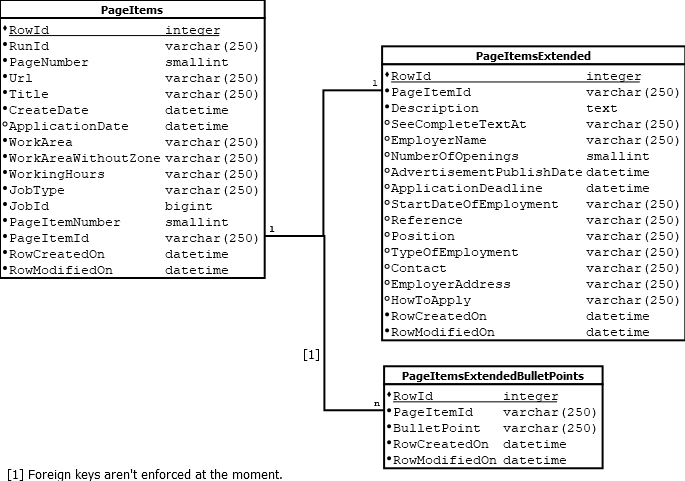
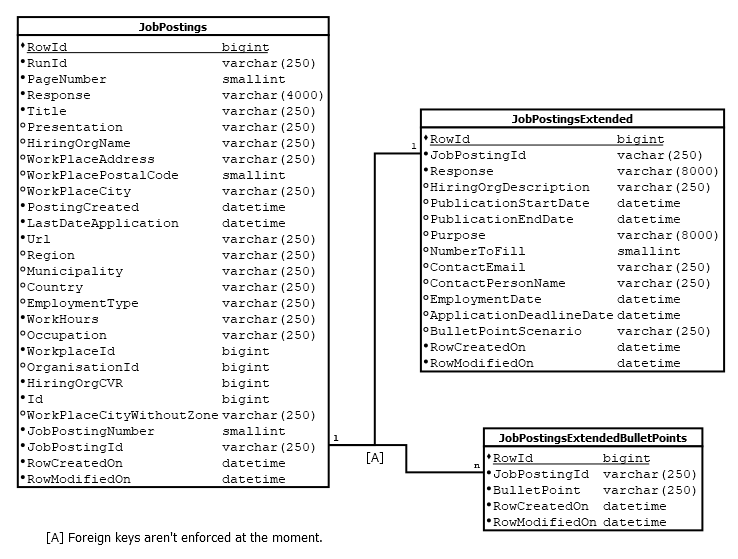
Diagram-WIDJobsDataModel*: updated for WID 2.0.

Changed region(s): [[0.0, 0.0, 1.0, 0.9979], [0.0, 0.9356, 0.4292, 1.0]]

diff --git a/docs/Documentation-NW.WIDJobs (new).md b/docs/Documentation-NW.WIDJobs (new).md
@@ -509,6 +509,14 @@ The following self-explanatory cleaning actions are applied on the extracted bul
 |`BulletPoints`|`RemoveInitialHyphen()`.|
 |`BulletPoints`|`FixNonBreakingSpaceCharacters()`.|
 
+## The data model
+
+`WIDExplorer` allows to export data into a SQLite database thru the `ToSQLite()` method. 
+
+The data model of this database is the following one:
+
+![Diagram-WIDJobsDataModel](Diagrams/Diagram-WIDJobsDataModel.png)
+
 ## Appendix - The TotalResultCount value via XPath
 
 ```html
